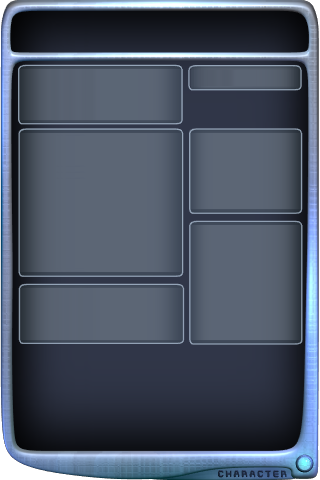
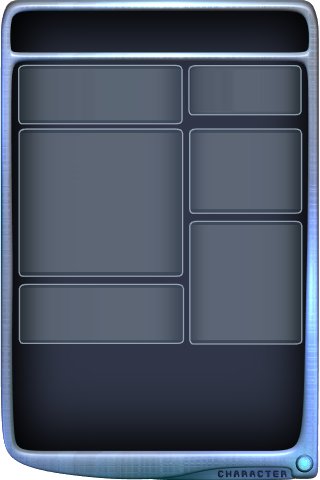
Limit the width of the texts in the 'character screen'
Clip long texts with ellipsis to avoid overlap with numbers.

Also use 2 lines to display the amount of circuits: the translation
of 'circuits' in German is a long word, for instance. Given that there
is an empty space below the 'circuits' area, we can avoid ellipsis.

Changed region(s): [[0.5625, 0.1875, 0.9688, 0.25]]

diff --git a/src/character.c b/src/character.c
@@ -51,10 +51,12 @@
 
 // common x-offsets for texts
 #define LEFT_TXT_X 25
+#define LEFT_TXT_MAX_SIZE 100
 #define RIGHT_TXT_X 195
+#define RIGHT_TXT_MAX_SIZE 105
 
 // x-offset for numbers
-#define LEFT_NR_X 175
+#define LEFT_NR_X STR_X
 #define RIGHT_NR_X 295
 
 // x-offset for values in the skills box
@@ -370,9 +372,9 @@ static void show_character_screen_skills()
 Error: melee weapon skill seems out of bounds.", PLEASE_INFORM | IS_FATAL);
 	}
 	set_current_font(Messagestat_Font);
-	display_text(_("Melee"), RIGHT_TXT_X + CharacterRect.x, MELEE_SKILL_Y + CharacterRect.y, &CharacterRect, 1.0);
+	display_text_ellipsized(_("Melee"), RIGHT_TXT_MAX_SIZE, RIGHT_TXT_X + CharacterRect.x, MELEE_SKILL_Y + CharacterRect.y, &CharacterRect, 1.0);
 	set_current_font(Messagevar_Font);
-	display_text(_(AllSkillTexts[Me.melee_weapon_skill]),
+	display_text_ellipsized(_(AllSkillTexts[Me.melee_weapon_skill]), RIGHT_TXT_MAX_SIZE,
 		    SKILLS_VALUE_X + CharacterRect.x, MELEE_SKILL_Y + 17 + CharacterRect.y, &CharacterRect, 1.0);
 
 	// We add some security against skill values out of allowed
@@ -384,9 +386,9 @@ Error: melee weapon skill seems out of bounds.", PLEASE_INFORM | IS_FATAL);
 Error: ranged weapon skill seems out of bounds.", PLEASE_INFORM | IS_FATAL);
 	}
 	set_current_font(Messagestat_Font);
-	display_text(_("Ranged"), RIGHT_TXT_X + CharacterRect.x, RANGED_SKILL_Y + CharacterRect.y, &CharacterRect, 1.0);
+	display_text_ellipsized(_("Ranged"), RIGHT_TXT_MAX_SIZE, RIGHT_TXT_X + CharacterRect.x, RANGED_SKILL_Y + CharacterRect.y, &CharacterRect, 1.0);
 	set_current_font(Messagevar_Font);
-	display_text(_(AllSkillTexts[Me.ranged_weapon_skill]),
+	display_text_ellipsized(_(AllSkillTexts[Me.ranged_weapon_skill]), RIGHT_TXT_MAX_SIZE,
 		    SKILLS_VALUE_X + CharacterRect.x, RANGED_SKILL_Y + 17 + CharacterRect.y, &CharacterRect, 1.0);
 
 	// We add some security against skill values out of allowed
@@ -398,9 +400,9 @@ Error: ranged weapon skill seems out of bounds.", PLEASE_INFORM | IS_FATAL);
 Error: Programming_Skill skill seems out of bounds.", PLEASE_INFORM | IS_FATAL);
 	}
 	set_current_font(Messagestat_Font);
-	display_text(_("Programming"), RIGHT_TXT_X + CharacterRect.x, SPELLCASTING_SKILL_Y + CharacterRect.y, &CharacterRect, 1.0);
+	display_text_ellipsized(_("Programming"), RIGHT_TXT_MAX_SIZE, RIGHT_TXT_X + CharacterRect.x, SPELLCASTING_SKILL_Y + CharacterRect.y, &CharacterRect, 1.0);
 	set_current_font(Messagevar_Font);
-	display_text(_(AllSkillTexts[Me.spellcasting_skill]),
+	display_text_ellipsized(_(AllSkillTexts[Me.spellcasting_skill]), RIGHT_TXT_MAX_SIZE,
 		    SKILLS_VALUE_X + CharacterRect.x, SPELLCASTING_SKILL_Y + 17 + CharacterRect.y, &CharacterRect, 1.0);
 
 };				// void show_character_screen_skills ( )
@@ -425,15 +427,16 @@ void ShowCharacterScreen()
 
 	// We define the right side of the user screen as the rectangle
 	// for our inventory screen.
-	//
+	// We will also limit the length of the texts, to avoid overlapping numbers
+
 	CharacterRect.x = GameConfig.screen_width - CHARACTERRECT_W;
 	CharacterRect.y = 0;
 	CharacterRect.w = CHARACTERRECT_W;
 	CharacterRect.h = CHARACTERRECT_H;
+	int left_nr_x = LEFT_NR_X - ((Me.points_to_distribute > 0) ? 34 : 0);
+	int left_str_max_size = 100 - ((Me.points_to_distribute > 0) ? 34 : 0);
 
 	blit_background("character.png");
-
-	set_current_font(Blue_Font);
 
 	set_current_font(Menu_Font);
 	display_text(Me.character_name, 20 + CharacterRect.x, 12 + CharacterRect.y, &CharacterRect, 1.0);
@@ -457,46 +460,46 @@ void ShowCharacterScreen()
 	display_text_right_justified(CharText, LEFT_NR_X + CharacterRect.x, 107 + CharacterRect.y, &CharacterRect, 1.0);
 
 	set_current_font(Messagestat_Font);
-	display_text(_("Circuits"), RIGHT_TXT_X + CharacterRect.x, 71 + CharacterRect.y, &CharacterRect, 1.0);
+	display_text(_("Circuits"), RIGHT_TXT_X + CharacterRect.x, 73 + CharacterRect.y, &CharacterRect, 1.0);
 	set_current_font(Messagevar_Font);
 	sprintf(CharText, "%6u", Me.Gold);
-	display_text_right_justified(CharText, RIGHT_NR_X + CharacterRect.x, 71 + CharacterRect.y, &CharacterRect, 1.0);
+	display_text_right_justified(CharText, RIGHT_NR_X + CharacterRect.x, 89 + CharacterRect.y, &CharacterRect, 1.0);
 
 	set_current_font(Messagestat_Font);
-	display_text(_("Strength"), LEFT_TXT_X + CharacterRect.x, STR_Y + CharacterRect.y, &CharacterRect, 1.0);
+	display_text_ellipsized(_("Strength"), left_str_max_size, LEFT_TXT_X + CharacterRect.x, STR_Y + CharacterRect.y, &CharacterRect, 1.0);
 	set_current_font(Messagevar_Font);
 	sprintf(CharText, "%d", Me.strength);
 	if (Me.strength != Me.base_strength)
 		sprintf(CharText + strlen(CharText), " (%+d)", Me.strength - Me.base_strength);
-	display_text_right_justified(CharText, LEFT_NR_X + CharacterRect.x, STR_Y + CharacterRect.y, &CharacterRect, 1.0);
+	display_text_right_justified(CharText, left_nr_x + CharacterRect.x, STR_Y + CharacterRect.y, &CharacterRect, 1.0);
 
 	set_current_font(Messagestat_Font);
-	display_text(_("Dexterity"), LEFT_TXT_X + CharacterRect.x, DEX_Y + CharacterRect.y, &CharacterRect, 1.0);
+	display_text_ellipsized(_("Dexterity"), left_str_max_size, LEFT_TXT_X + CharacterRect.x, DEX_Y + CharacterRect.y, &CharacterRect, 1.0);
 	set_current_font(Messagevar_Font);
 	sprintf(CharText, "%d", Me.dexterity);
 	if (Me.dexterity != Me.base_dexterity)
 		sprintf(CharText + strlen(CharText), " (%+d)", Me.dexterity - Me.base_dexterity);
-	display_text_right_justified(CharText, LEFT_NR_X + CharacterRect.x, DEX_Y + CharacterRect.y, &CharacterRect, 1.0);
+	display_text_right_justified(CharText, left_nr_x + CharacterRect.x, DEX_Y + CharacterRect.y, &CharacterRect, 1.0);
 
 	set_current_font(Messagestat_Font);
-	display_text(_("Physique"), LEFT_TXT_X + CharacterRect.x, VIT_Y + CharacterRect.y, &CharacterRect, 1.0);
+	display_text_ellipsized(_("Physique"), left_str_max_size, LEFT_TXT_X + CharacterRect.x, VIT_Y + CharacterRect.y, &CharacterRect, 1.0);
 	set_current_font(Messagevar_Font);
 	sprintf(CharText, "%d", Me.physique);
 	if (Me.physique != Me.base_physique)
 		sprintf(CharText + strlen(CharText), " (%+d)", Me.physique - Me.base_physique);
-	display_text_right_justified(CharText, LEFT_NR_X + CharacterRect.x, VIT_Y + CharacterRect.y, &CharacterRect, 1.0);
+	display_text_right_justified(CharText, left_nr_x + CharacterRect.x, VIT_Y + CharacterRect.y, &CharacterRect, 1.0);
 
 	set_current_font(Messagestat_Font);
-	display_text(_("Cooling"), LEFT_TXT_X + CharacterRect.x, MAG_Y + CharacterRect.y, &CharacterRect, 1.0);
+	display_text_ellipsized(_("Cooling"), left_str_max_size, LEFT_TXT_X + CharacterRect.x, MAG_Y + CharacterRect.y, &CharacterRect, 1.0);
 	set_current_font(Messagevar_Font);
 	sprintf(CharText, "%d", Me.cooling);
 	if (Me.cooling != Me.base_cooling)
 		sprintf(CharText + strlen(CharText), " (%+d)", Me.cooling - Me.base_cooling);
-	display_text_right_justified(CharText, LEFT_NR_X + CharacterRect.x, MAG_Y + CharacterRect.y, &CharacterRect, 1.0);
+	display_text_right_justified(CharText, left_nr_x + CharacterRect.x, MAG_Y + CharacterRect.y, &CharacterRect, 1.0);
 
 	SDL_Rect tmprect = CharacterRect;
 	set_current_font(Messagestat_Font);
-	display_text(_("Training points"), LEFT_TXT_X + CharacterRect.x, POINTS_Y + CharacterRect.y, &tmprect, 1.0);
+	display_text_ellipsized(_("Training points"), LEFT_TXT_MAX_SIZE, LEFT_TXT_X + CharacterRect.x, POINTS_Y + CharacterRect.y, &tmprect, 1.0);
 	set_current_font(Messagevar_Font);
 	sprintf(CharText, "%d", Me.points_to_distribute);
 	display_text_right_justified(CharText, LEFT_NR_X + CharacterRect.x, POINTS_Y + CharacterRect.y, &CharacterRect, 1.0);

diff --git a/src/text.c b/src/text.c
@@ -246,30 +246,16 @@ void transient_text_show(void)
 }
 
 /**
- *
+ * Return TRUE if the string is cut
  */
 int CutDownStringToMaximalSize(char *StringToCut, int LengthInPixels)
 {
-	int StringIndex = 0;
-	int i;
-
-	if (text_width(get_current_font(), StringToCut) <= LengthInPixels)
+	int string_index = limit_text_width(get_current_font(), StringToCut, LengthInPixels);
+	if (string_index < 0)
 		return FALSE;
 
-	StringIndex = limit_text_width(get_current_font(), StringToCut, LengthInPixels);
-	if (StringIndex < 1)
-		return FALSE;
-
-	for (i = 0; i < 3; i++) {
-		if (StringToCut[StringIndex + i] != 0) {
-			StringToCut[StringIndex + i] = '.';
-		} else
-			return TRUE;
-	}
-	StringToCut[StringIndex + 3] = 0;
-
-	return TRUE;
-};				// void CutDownStringToMaximalSize ( char* StringToCut , int LengthInPixels )
+	return ellipsize_text(StringToCut, LengthInPixels);
+}
 
 /**
  * This function sets a new text, that will be displayed in huge font
@@ -533,6 +519,23 @@ static int display_text_with_cursor(const char *text, int startx, int starty, co
 int display_text(const char *text, int startx, int starty, const SDL_Rect *clip, float line_height_factor)
 {
 	return display_text_with_cursor(text, startx, starty, clip, line_height_factor, -1);
+}
+
+/**
+ * Prints text at given position, ellipsizing the text to 'max_size' width
+ * (in pixels). Possibly, also automatically word-wraps at the edges of
+ * clip_rect.  If clip_rect is NULL, no clipping is performed.
+ *
+ * @return number of lines written (from the first text line up to the
+ *         last displayed line)
+ */
+int display_text_ellipsized(const char *text, int max_size, int startx, int starty, const SDL_Rect *clip, float line_height_factor)
+{
+	char *str = strdup(text);
+	CutDownStringToMaximalSize(str, max_size);
+	int nblines = display_text_with_cursor(str, startx, starty, clip, line_height_factor, -1);
+	free(str);
+	return nblines;
 }
 
 /**

diff --git a/src/misc.c b/src/misc.c
@@ -321,13 +321,13 @@ mouse_press_button AllMousePressButtons[MAX_MOUSE_PRESS_BUTTONS] = {
 	    {EMPTY_IMAGE, "THIS_DOESNT_NEED_BLITTING", {ARMOUR_RECT_X, ARMOUR_RECT_Y, ARMOUR_RECT_WIDTH, ARMOUR_RECT_HEIGHT}, FALSE},
 
 	[MORE_STR_BUTTON] =
-	    {EMPTY_IMAGE, "mouse_buttons/AttributePlusButton.png", {0 + STR_X + 53, STR_Y - 5, 38, 22}, FALSE},
+	    {EMPTY_IMAGE, "mouse_buttons/AttributePlusButton.png", {0 + STR_X - 30, STR_Y - 2, 33, 22}, FALSE},
 	[MORE_MAG_BUTTON] =
-	    {EMPTY_IMAGE, "mouse_buttons/AttributePlusButton.png", {0 + STR_X + 53, MAG_Y - 5, 38, 22}, FALSE},
+	    {EMPTY_IMAGE, "mouse_buttons/AttributePlusButton.png", {0 + STR_X - 30, MAG_Y - 2, 33, 22}, FALSE},
 	[MORE_DEX_BUTTON] =
-	    {EMPTY_IMAGE, "mouse_buttons/AttributePlusButton.png", {0 + STR_X + 53, DEX_Y - 5, 38, 22}, FALSE},
+	    {EMPTY_IMAGE, "mouse_buttons/AttributePlusButton.png", {0 + STR_X - 30, DEX_Y - 2, 33, 22}, FALSE},
 	[MORE_VIT_BUTTON] =
-	    {EMPTY_IMAGE, "mouse_buttons/AttributePlusButton.png", {0 + STR_X + 53, VIT_Y - 5, 38, 22}, FALSE},
+	    {EMPTY_IMAGE, "mouse_buttons/AttributePlusButton.png", {0 + STR_X - 30, VIT_Y - 2, 33, 22}, FALSE},
 
 	[DESCRIPTION_WINDOW_UP_BUTTON] = {EMPTY_IMAGE, "THIS_DOESNT_NEED_BLITTING", {607, 99, 26, 26}, TRUE},
 	[DESCRIPTION_WINDOW_DOWN_BUTTON] = {EMPTY_IMAGE, "THIS_DOESNT_NEED_BLITTING", {607, 347, 26, 26}, TRUE},

diff --git a/src/BFont.c b/src/BFont.c
@@ -301,4 +301,48 @@ int limit_text_width(struct font *font, const char *text, int limit)
 	return -1;
 }
 
+int ellipsize_text(char *text, int limit)
+{
+	struct font *font = get_current_font();
+	int letter_spacing = get_letter_spacing(font);
+	int ellipsis_size = 3*font_char_width(font, '.') + 2*letter_spacing;
+
+	char *ptr = (char *)text;
+	int width = 0;
+
+	while (*ptr != '\0') {
+		if (handle_switch_font_char(&ptr)) {
+			letter_spacing = get_letter_spacing(font);
+			ellipsis_size = 3*font_char_width(font, '.') + 2*letter_spacing;
+			continue;
+		}
+		width += font_char_width(font, *ptr) + letter_spacing;
+		if ((width + ellipsis_size) >= limit)
+			break; // limit reached, cut at previous character
+		ptr++; // try an additional character
+	}
+
+	if (ptr == text) {
+		// the size limit is too narrow for even one single char...
+		return FALSE;
+	}
+
+	if (*ptr == '\0') {
+		// end of text reached, no need to cut
+		return FALSE;
+	}
+
+	int index = (ptr - text);
+	int i; // do not declare inside the for, we use it later
+	for (i=0; i<3; i++) {
+		if (text[index + i] == '\0') {
+			// can't go further, the ellipsis will not be composed of 3 dots
+			break;
+		}
+		text[index + i] = '.';
+	}
+	text[index + i] = '\0'; // 'i' is after the ellipsis
+	return TRUE;
+}
+
 #undef _bfont_c

diff --git a/src/BFont.h b/src/BFont.h
@@ -39,6 +39,7 @@ int text_width(struct font *font, const char *text);
 
 /* Returns the index of the last character than is inside the width limit, with the specified font */
 int limit_text_width(struct font *font, const char *text, int limit);
+int ellipsize_text(char *text, int limit);
 
 /* Write a string on the screen with the specified font */
 void put_string(struct font *font, int x, int y, const char *text);

diff --git a/src/proto.h b/src/proto.h
@@ -704,6 +704,7 @@ void display_effect_countdowns(void);
 int chat_with_droid(struct enemy *);
 
 int display_text(const char *, int, int, const SDL_Rect*, float);
+int display_text_ellipsized(const char *, int, int, int, const SDL_Rect *, float);
 int display_text_right_justified(const char *, int, int, const SDL_Rect *, float);
 
 int ImprovedCheckLineBreak(char *, const SDL_Rect*, float);

diff --git a/src/defs.h b/src/defs.h
@@ -443,7 +443,7 @@ enum {
 };
 
 
-#define STR_X 90
+#define STR_X 175
 #define STR_Y 140
 #define DEX_Y 165
 #define VIT_Y 190
